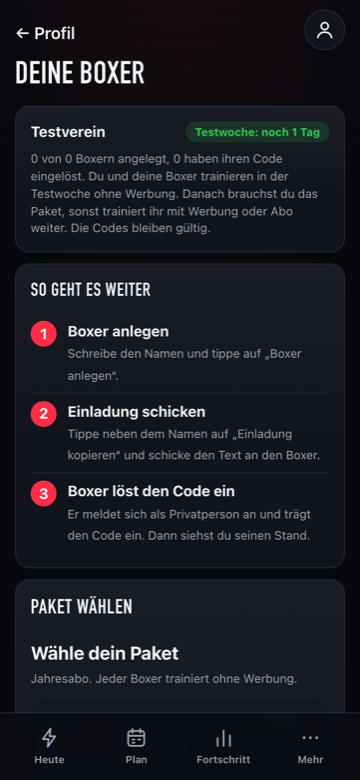
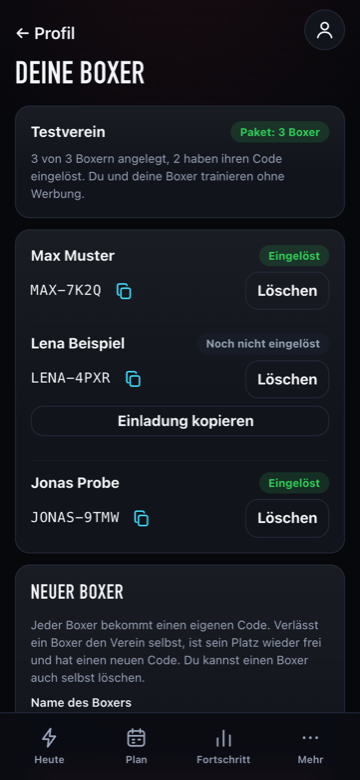
Info-Seite: Trainer-Ansicht mit Beispiel-Boxern

diff --git a/fuer-vereine.html b/fuer-vereine.html
@@ -65,7 +65,7 @@
         <div class="fbody">
           <p class="eyebrow">Die Trainer-Ansicht</p>
           <h2>„Deine Boxer“ auf einen Blick</h2>
-          <p>Hier legst du deine Boxer an, schickst die Einladung und siehst, wer seinen Code eingelöst hat. Oben steht, wie viele Tage von der Testwoche noch übrig sind.</p>
+          <p>Hier legst du deine Boxer an, schickst die Einladung und siehst, wer seinen Code eingelöst hat. Oben steht das Paket und wie viele Boxer ihren Code schon eingelöst haben.</p>
         </div>
         <figure style="margin:0"><img class="phone" src="img/t1_deine_boxer.png" alt="Trainer-Ansicht Deine Boxer mit der Testwoche und den drei Schritten" width="390" height="844" loading="lazy"></figure>
       </div>
